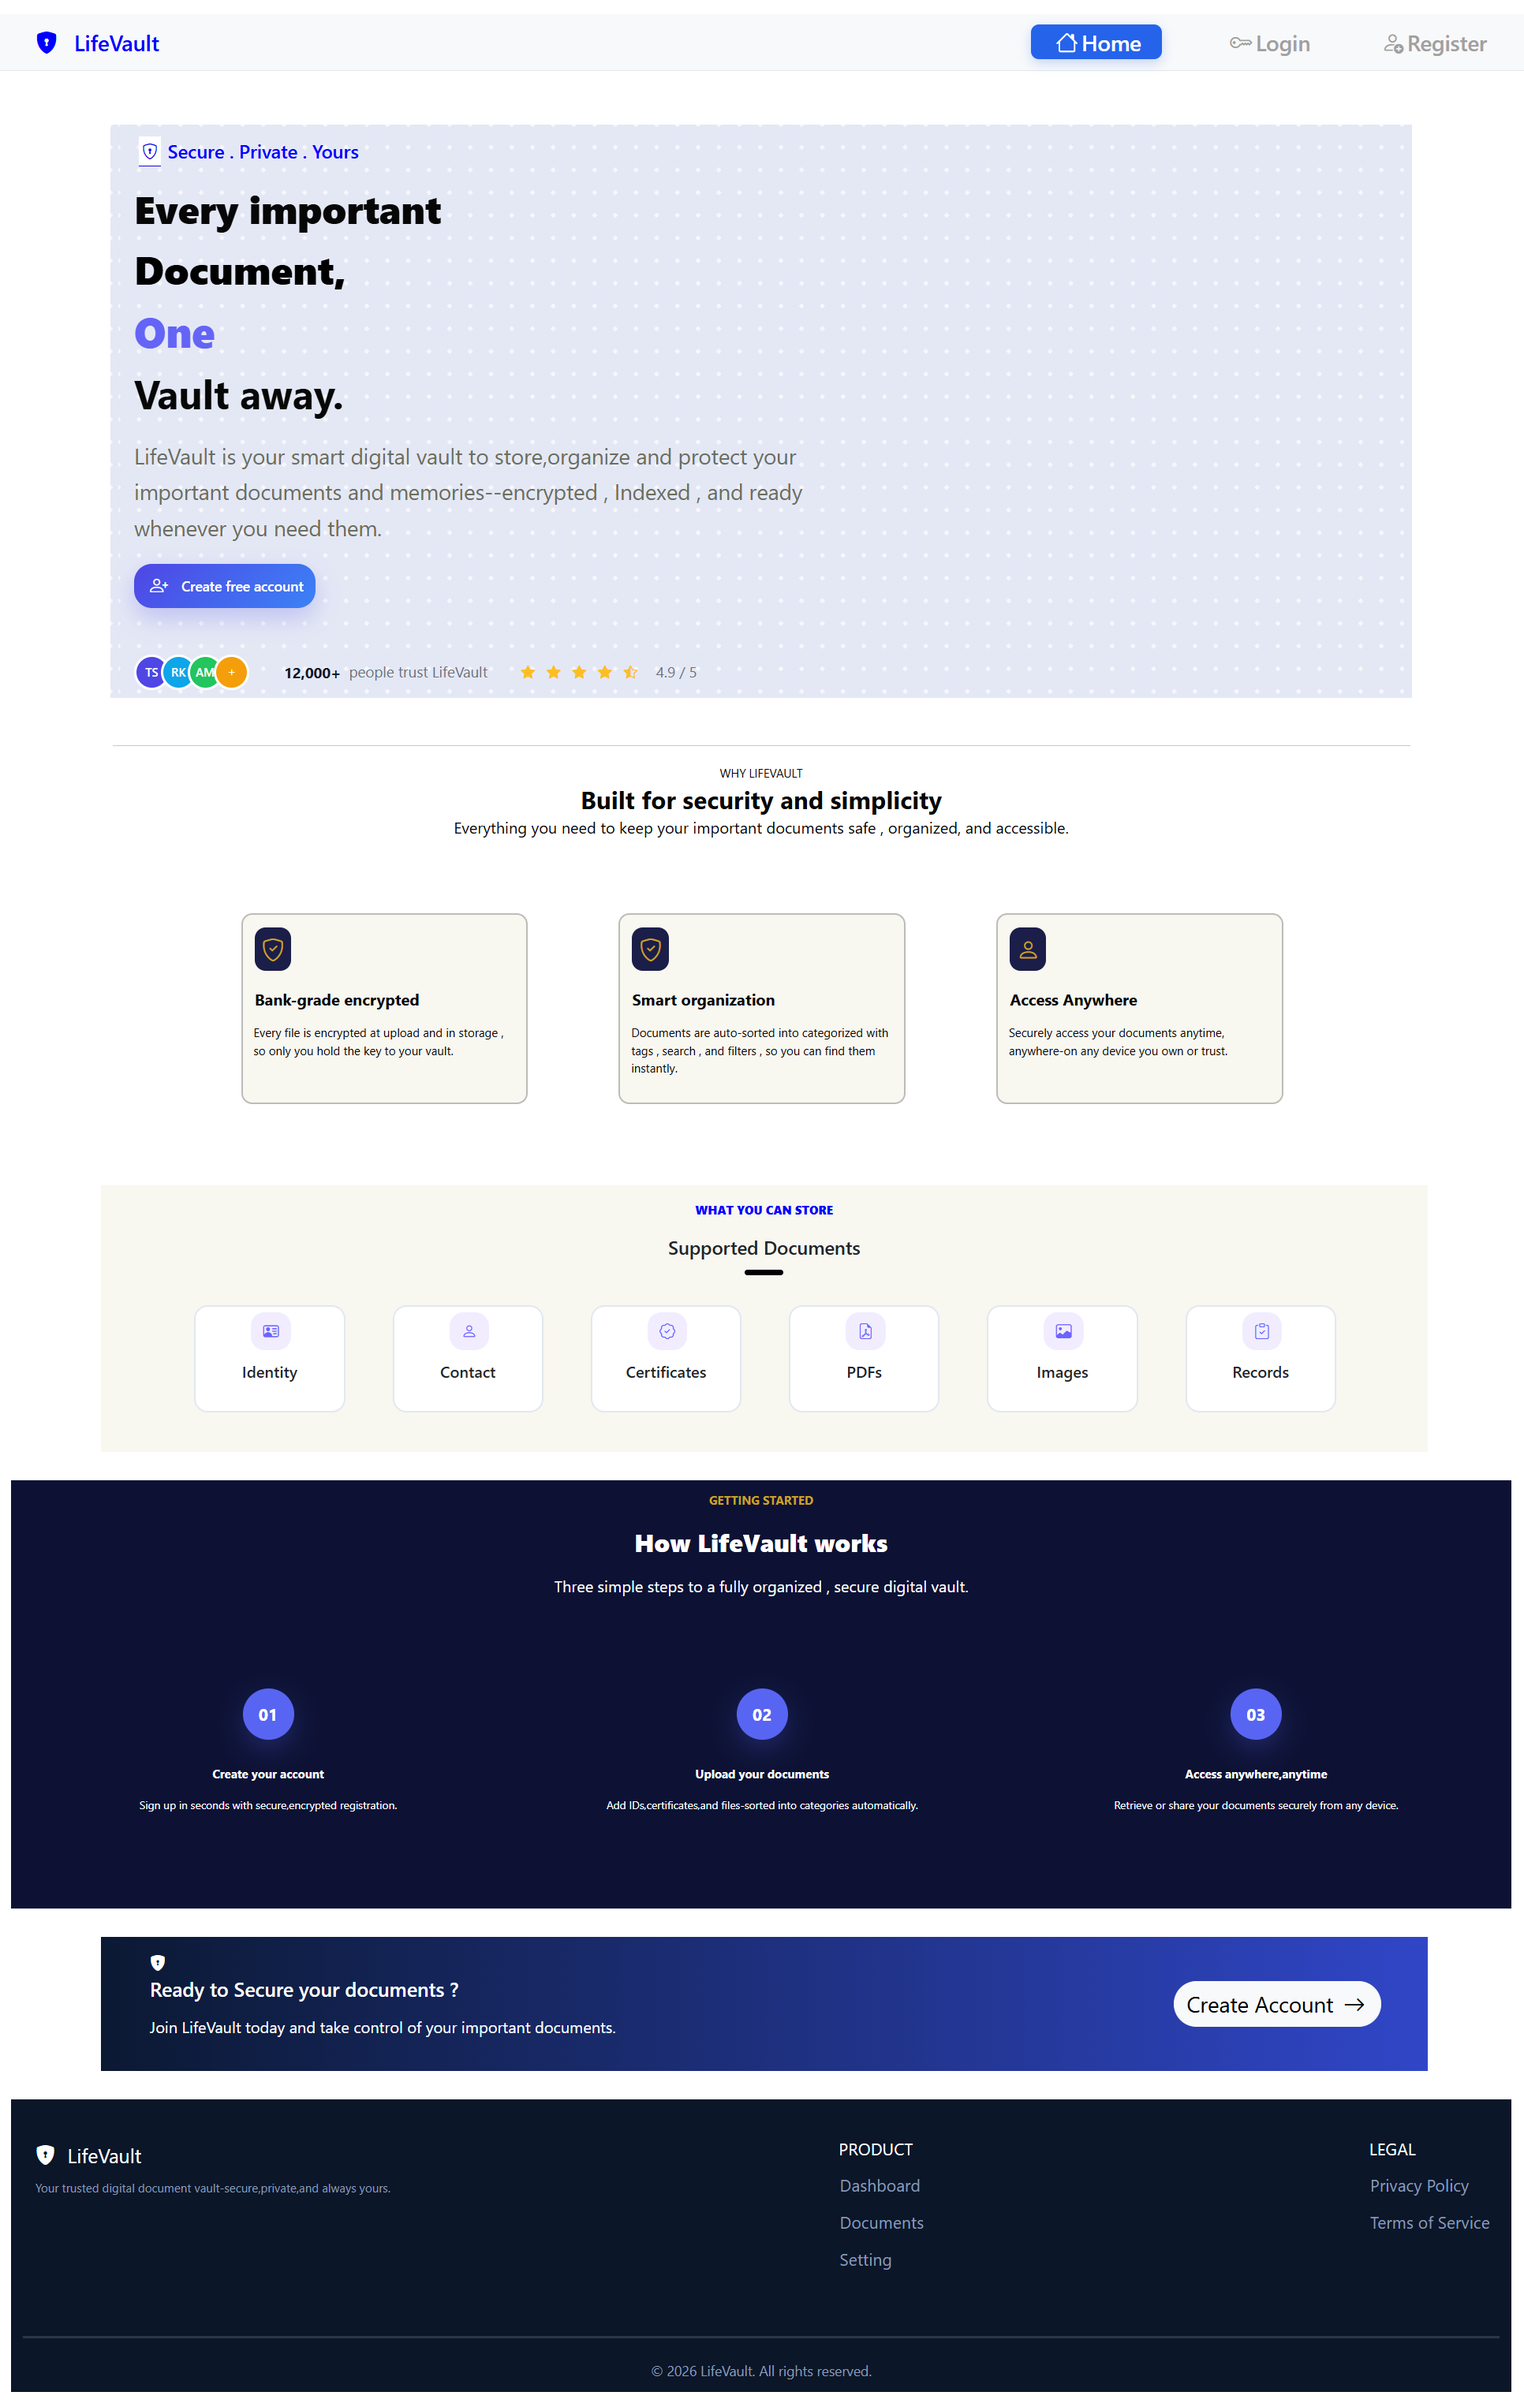
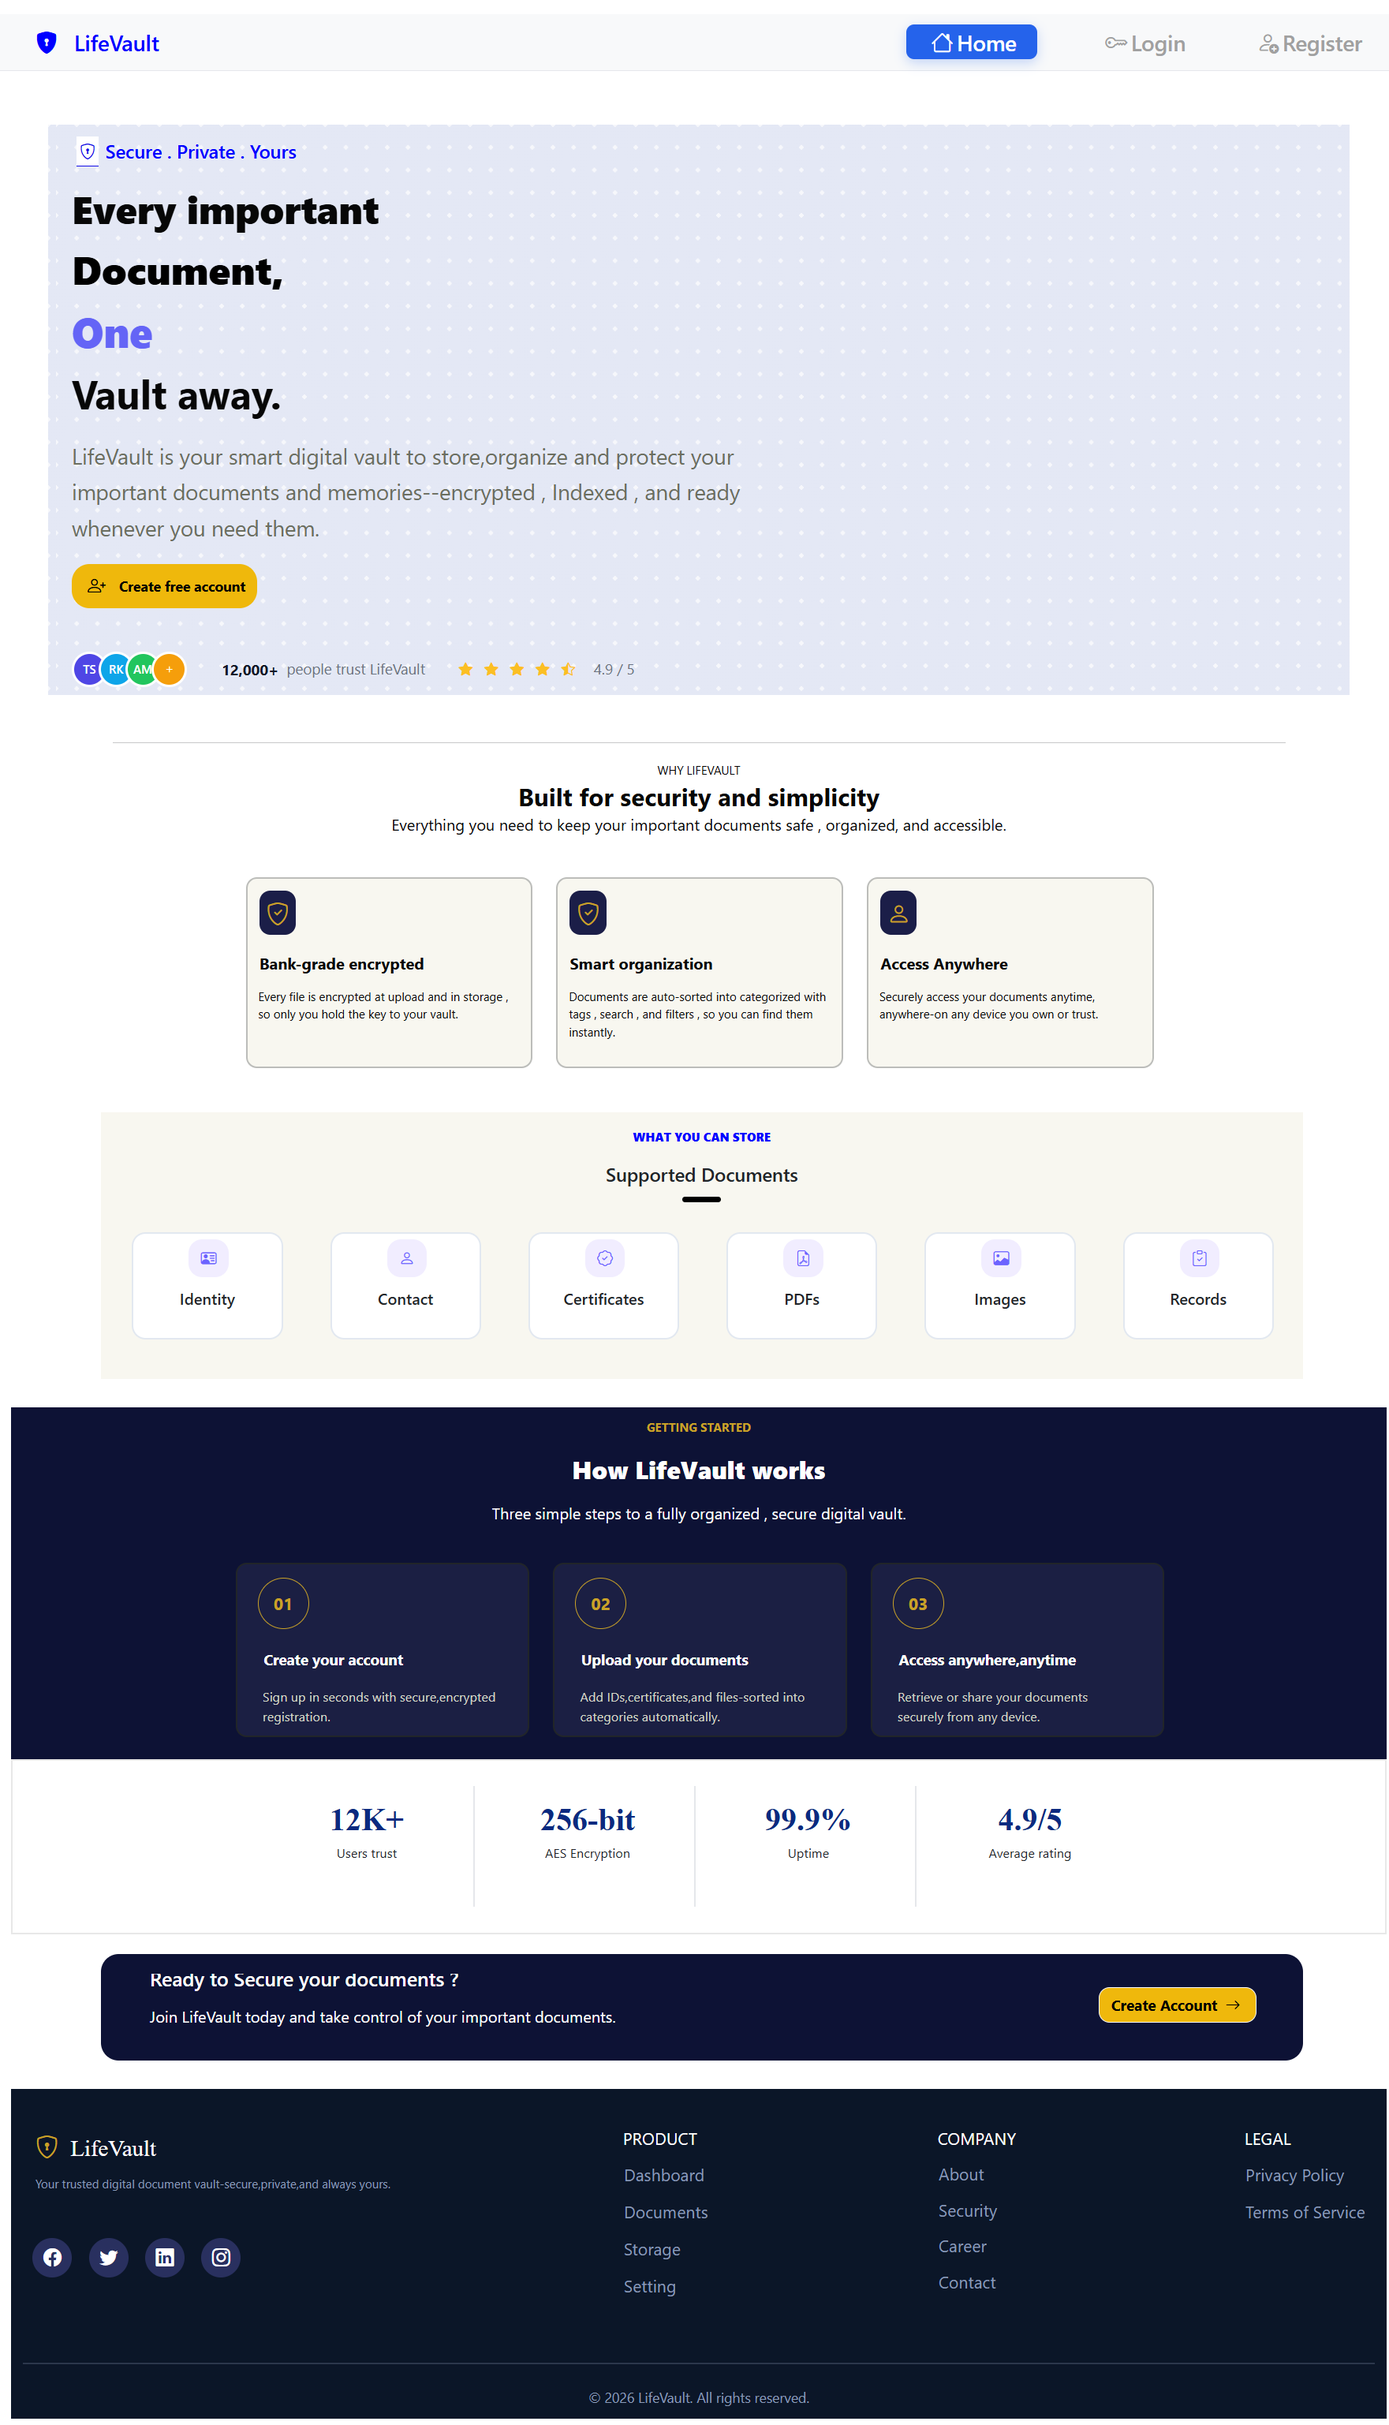
Updated HomePage UI Screenshot

diff --git a/assets/home.css b/assets/home.css
@@ -174,13 +174,14 @@ text-field */
 
 }
 .document{
-  background: linear-gradient(90deg, #0B1933 0%, #3046C7 100%);
+  background-color:#0D1235;
   padding: 10px 42px; 
   margin: 3px;
   display: flex;
   justify-content: space-between;
   align-items: center;
   color: white;
+  border-radius: 18px;
   
 }
 .container-document i{
@@ -216,15 +217,16 @@ display: flex;
 align-items: center;
 justify-content: center;
 }
-.child-btn:hover{
-   
-}
-.child-btn a{
-    font-size: 22px;
-    font-weight: initial;
-    border-radius: 23px;
-}
 
+.child-btn a{
+    font-size: 15px;
+    font-weight: 700;
+    border-radius: 11px;
+}
+.btn-light{
+    color: #000;
+    background-color: #efb80c;
+}
 
 .document-supported{
     margin: 25px;
@@ -414,7 +416,7 @@ doc-card */
 Users trust */
 .users-trust{
     min-height: 103px;
-    border: 1px solid;
+    border: 2px solid #00000017;
     margin: -8px 0px;
 }
 
@@ -489,13 +491,13 @@ transition: .3s;
     padding: 5px 12px;
     border-radius: 18px;
 
-    background: linear-gradient(135deg,#4F46E5,#3B82F6);
-    color: #fff;
+    
+    color: #000000;
     text-decoration: none;
     font-size: 14px;
-    font-weight: 600;
+    font-weight: 700;
 
-    box-shadow: 0 10px 25px rgba(79,70,229,.25);
+    background-color: #efb80c;
     transition: .3s ease;
     margin: 4px 8px;
 }
@@ -729,7 +731,8 @@ FOOTER */
     
 }
 .project-name i{
-    font-size: 20px;
+    font-size: 23px;
+    color:  #C9A227;
 }
 .project-p{
 color: #8A9BB8;
@@ -739,7 +742,8 @@ color: #8A9BB8;
     font-size: 12px;
 }
 .project-name span{
-    font-size: 20px;
+    font-size: 23px;
+    font-family: emoji;
 }
 
 .footer-complete{
@@ -791,7 +795,62 @@ color: #8A9BB8;
     padding: 1px 6px;
 }
 
+/* =====
+FOOTER COMPANY */
 
+.footer-company span{
+    
+    font-size: 17px;
+    color: white;
+}
+
+.footer-company ul{
+    list-style: none;
+    padding: 0;
+}
+.footer-company li{
+    padding: 0;
+    margin: 11px 0px;
+
+}
+.footer-company a{
+     color: #8A9BB8;
+    text-decoration: none;
+    font-size: 17px;
+}
+
+
+
+/* ======
+SOCIAL  */
+
+.social-icons {
+    display: flex;
+    gap: 15px;
+    margin-top: 20px;
+}
+
+.social-icon {
+    width: 40px;
+    height: 40px;
+    border-radius: 50%;
+    background-color: #29305F;
+
+    display: flex;
+    align-items: center;
+    justify-content: center;
+
+    color: #FFFFFF;
+    text-decoration: none;
+    font-size: 18px;
+
+    transition: 0.3s ease;
+}
+
+.social-icon:hover {
+    background-color:  #C9A227;
+    transform: translateY(-3px);
+}
 .footer-reserved{
     display: flex;
     justify-content: center;

diff --git a/application/views/auth/Home.php b/application/views/auth/Home.php
@@ -541,7 +541,7 @@ $method = $this->router->fetch_method();
 <section class="document-section">
   <div class="container-fluid document">
     <div class="child_div">
-    <i  class="bi bi-shield-lock-fill" ></i>
+  
     <h5>
       Ready to Secure your documents ?
     </h5>
@@ -568,7 +568,7 @@ $method = $this->router->fetch_method();
         <div class="footer-complete">
         <div class="footer-mid">
         <div class="project-name">
-          <i class="bi bi-shield-lock-fill"></i>
+          <i class="bi bi-shield-lock"></i>
 
           <span>
             LifeVault
@@ -579,6 +579,26 @@ $method = $this->router->fetch_method();
             Your trusted digital document vault-secure,private,and always yours.
           </p>
         </div>
+
+        <div class="social-icons">
+
+    <a href="#" class="social-icon">
+        <i class="bi bi-facebook"></i>
+    </a>
+
+    <a href="#" class="social-icon">
+        <i class="bi bi-twitter"></i>
+    </a>
+
+    <a href="#" class="social-icon">
+        <i class="bi bi-linkedin"></i>
+    </a>
+
+    <a href="#" class="social-icon">
+        <i class="bi bi-instagram"></i>
+    </a>
+
+</div>
         </div>
 
     <div class="footer-column">
@@ -600,11 +620,40 @@ $method = $this->router->fetch_method();
     </li>
 
 <li>
+    <a href="<?= site_url('Storage/storage'); ?>">Storage</a>
+</li>
+
+<li>
     <a href="<?= site_url('Settings/setting'); ?>">Setting</a>
 </li>
 </ul>
     </div>
-        
+<div class="footer-company">
+  <span>
+    COMPANY
+  </span>
+
+  <ul>
+    <li>
+      <a href="<?= site_url('About/about');  ?>">About</a>
+    </li>
+
+      <li>
+      <a href="<?= site_url('Security/security');  ?>">Security</a>
+    </li>
+
+
+      <li>
+      <a href="<?= site_url('Careers/career');  ?>">Career</a>
+    </li>
+
+
+
+      <li>
+      <a href="<?= site_url('Contact/contact');  ?>">Contact</a>
+    </li>
+  </ul>
+</div>
 
  <div class="footer-legal">
 <span>

diff --git a/README.md b/README.md
@@ -38,7 +38,7 @@ The objective of this project is to provide a simple, secure, and user-friendly 
 
 ## 🏠 Home Page
 
-![Home](Screenshots/Updated_Homepage.png.png)
+![Home](Screenshots/Updated_HomePage.png.png)
 
 ---
 
